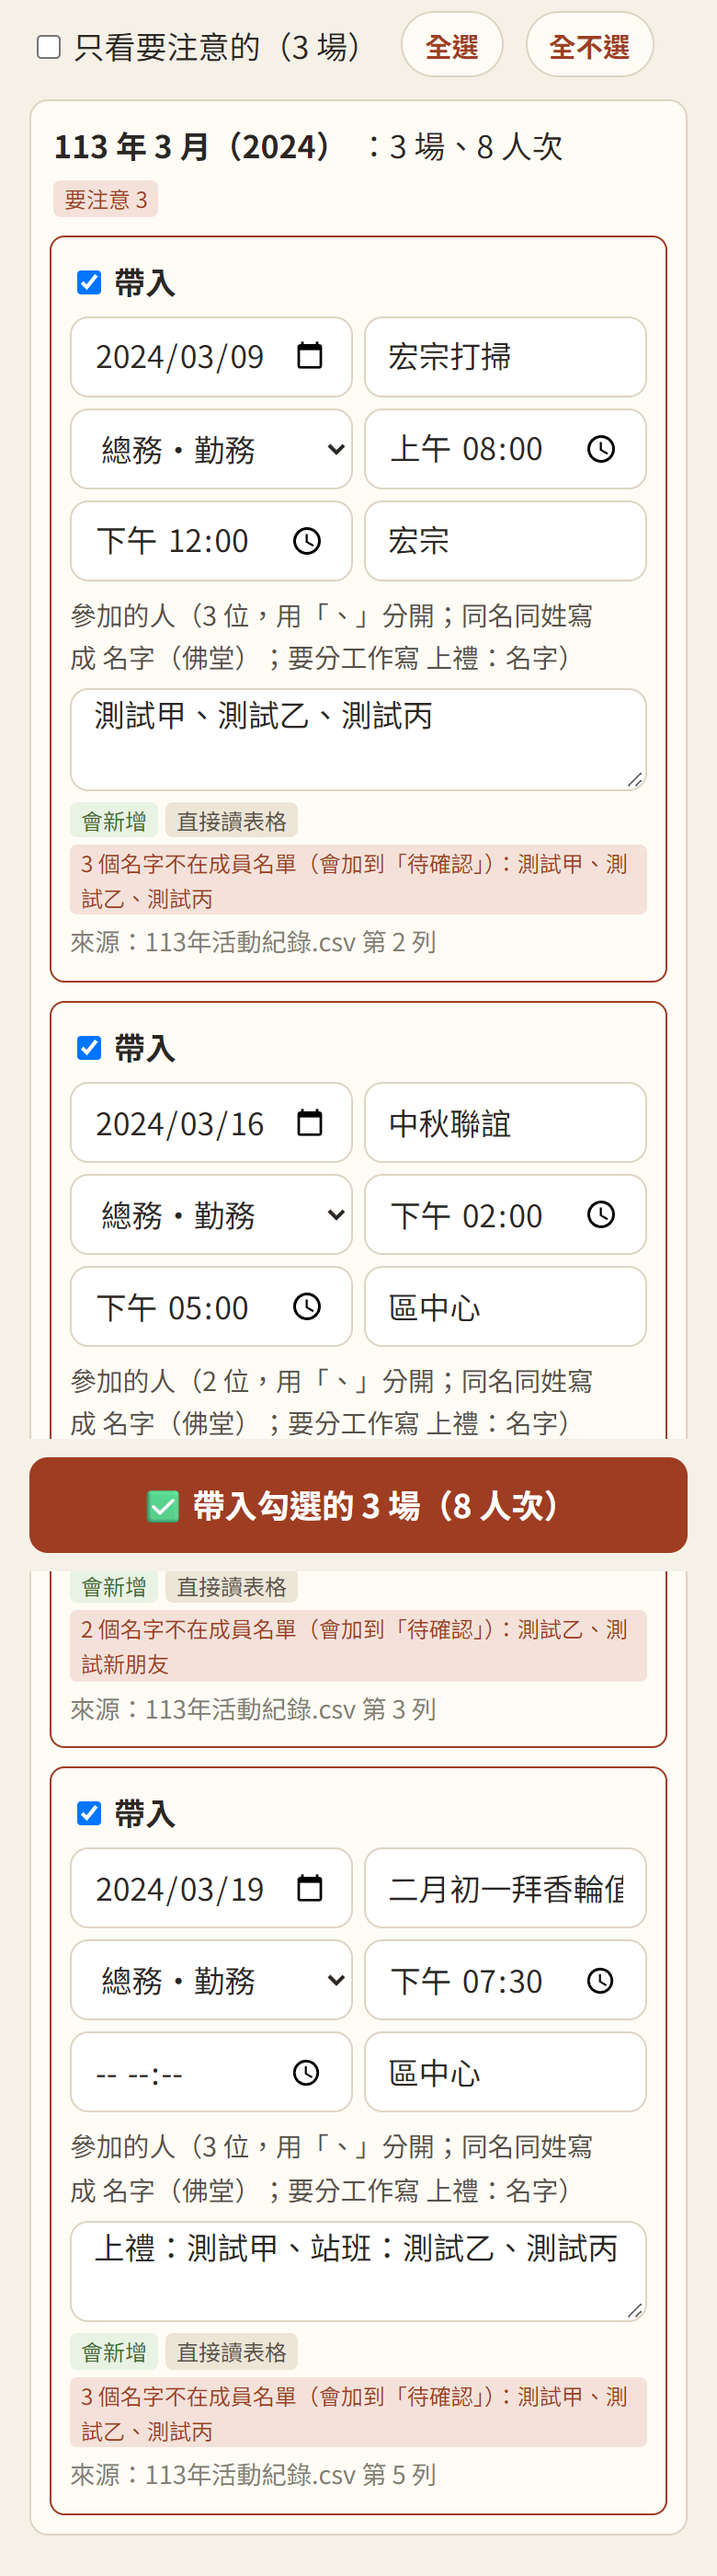
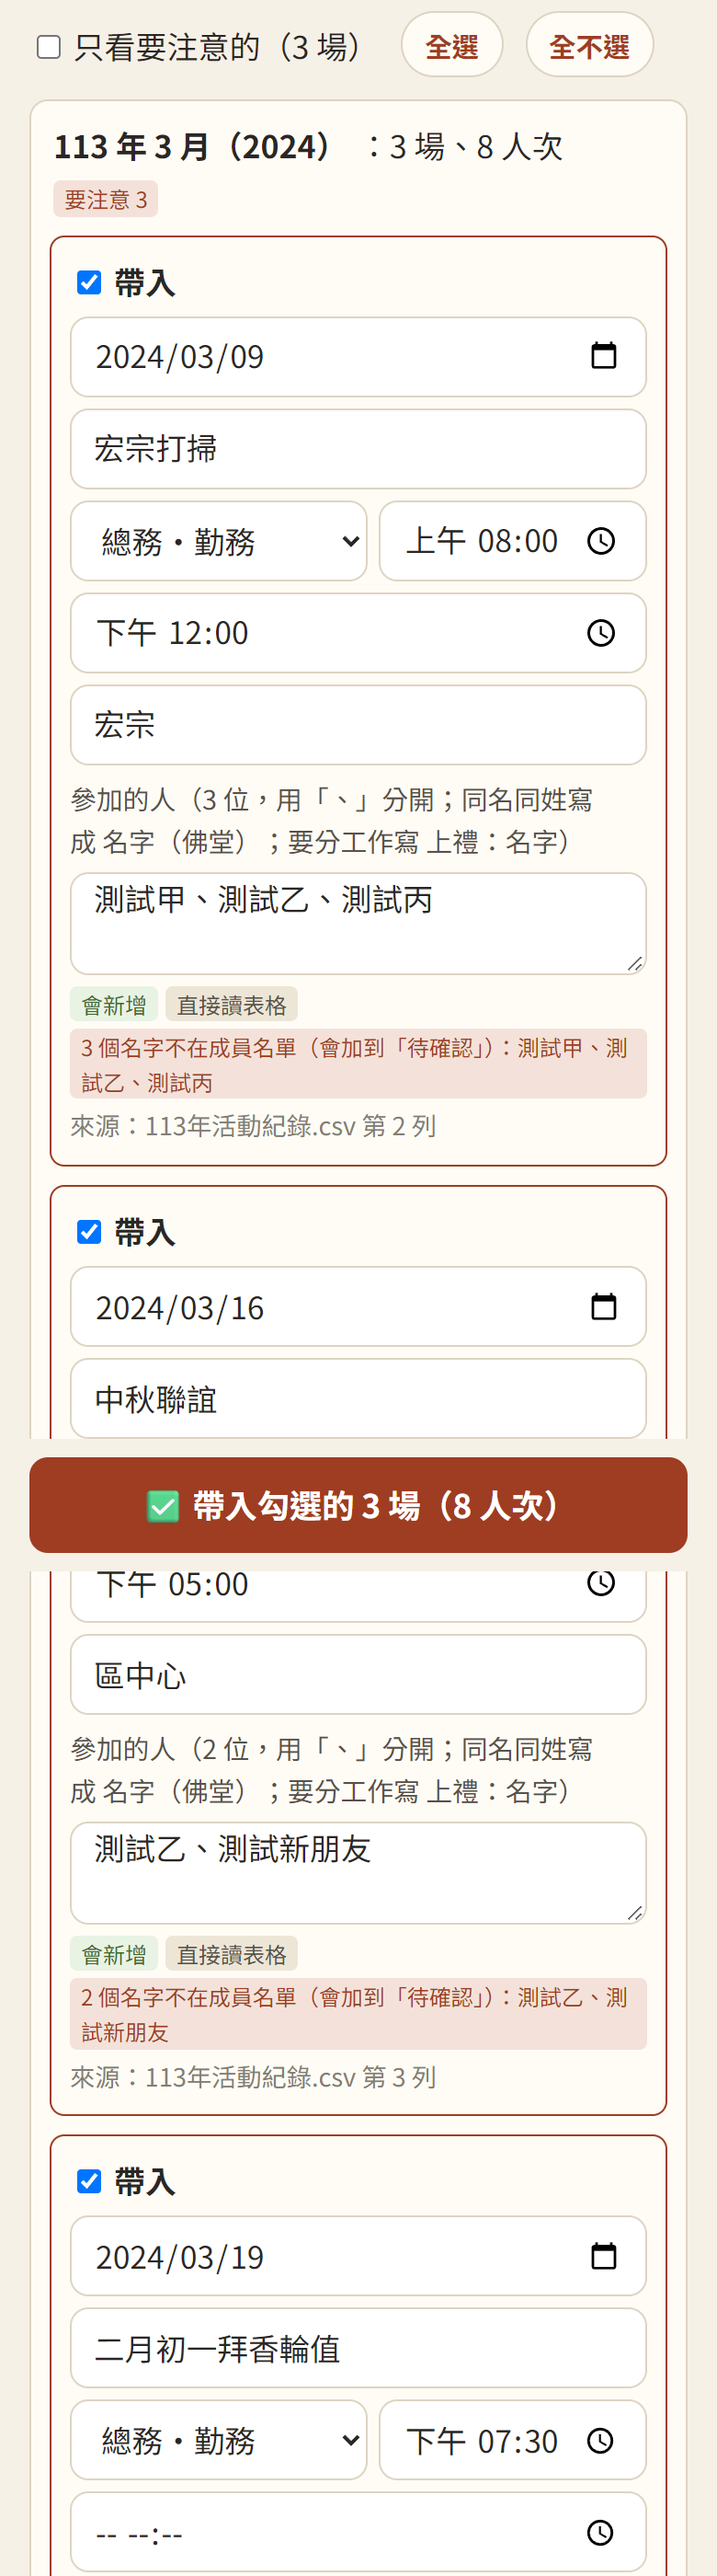
從檔案帶入舊資料：欄位加寬，日期、名稱不再被切到

diff --git a/index.html b/index.html
@@ -15,7 +15,7 @@
   if (location.hostname === 'bailixiao.github.io') location.replace('https://jiaoquan-cal.pages.dev/' + location.pathname.replace(/^\/duty-calendar\/?/, '').replace(/index\.html$/, '') + location.search + location.hash);
   </script>
   <meta name="viewport" content="width=device-width, initial-scale=1">
-  <meta name="app-version" content="20261127c"><!-- 整個網站的版本：部署時和 ?v= 一起換（js/update-check.js 用；正式網站的 ?v= 會換成各檔案的雜湊，見 tools/build-pages.js） -->
+  <meta name="app-version" content="20261127d"><!-- 整個網站的版本：部署時和 ?v= 一起換（js/update-check.js 用；正式網站的 ?v= 會換成各檔案的雜湊，見 tools/build-pages.js） -->
   <meta name="theme-color" content="#f6f1e7">
   <title>教全區行事曆</title>
   <!-- 加到手機主畫面時的圖示與名稱 -->
@@ -32,7 +32,7 @@
   <link rel="preconnect" href="https://fonts.googleapis.com">
   <link rel="preconnect" href="https://fonts.gstatic.com" crossorigin>
   <link href="https://fonts.googleapis.com/css2?family=Noto+Sans+TC:wght@400;500;700&family=Noto+Serif+TC:wght@600;700&display=swap" rel="stylesheet">
-  <link rel="stylesheet" href="css/app.css?v=20261127c">
+  <link rel="stylesheet" href="css/app.css?v=20261127d">
   <script>try { var t = localStorage.getItem('duty-calendar:text-size'); if (t === 'l' || t === 'xl') document.documentElement.classList.add('text-' + t); } catch (e) {}</script>
 </head>
 <body class="splash-on">
@@ -127,78 +127,78 @@
   <script src="https://cdn.jsdelivr.net/npm/fullcalendar@6.1.21/index.global.min.js"></script>
   <script src="https://cdn.jsdelivr.net/npm/@fullcalendar/core@6.1.21/locales/zh-tw.global.min.js"></script>
   <!-- 改了 js、css 後把 ?v= 的日期換新，手機才不會用到舊的檔案（GitHub Pages 會快取 10 分鐘） -->
-  <script src="js/site.js?v=20261127c"></script>
-  <script src="js/region.js?v=20261127c"></script>
-  <script src="js/config.js?v=20261127c"></script>
-  <script src="js/api.js?v=20261127c"></script>
-  <script src="js/format.js?v=20261127c"></script>
-  <script src="js/member-suggest.js?v=20261127c"></script>
-  <script src="js/newcomer.js?v=20261127c"></script>
-  <script src="js/album.js?v=20261127c"></script>
-  <script src="js/member-file.js?v=20261127c"></script>
-  <script src="js/family.js?v=20261127c"></script>
-  <script src="js/lunar-util.js?v=20261127c"></script>
-  <script src="js/date-list.js?v=20261127c"></script>
-  <script src="js/share.js?v=20261127c"></script>
-  <script src="js/addcal.js?v=20261127c"></script>
-  <script src="js/duty-cache.js?v=20261127c"></script>
-  <script src="js/thanks-board.js?v=20261127c"></script>
-  <script src="js/calendar.js?v=20261127c"></script>
-  <script src="js/confirm.js?v=20261127c"></script>
-  <script src="js/reschedule.js?v=20261127c"></script>
-  <script src="js/signup.js?v=20261127c"></script>
-  <script src="js/duty-images.js?v=20261127c"></script>
-  <script src="js/roster-grid.js?v=20261127c"></script>
-  <script src="js/grid-page.js?v=20261127c"></script>
-  <script src="js/grid-image.js?v=20261127c"></script>
-  <script src="js/thanks-image.js?v=20261127c"></script>
-  <script src="js/celebrate.js?v=20261127c"></script>
-  <script src="js/duty.js?v=20261127c"></script>
-  <script src="js/mine.js?v=20261127c"></script>
-  <script src="js/venue-hours.js?v=20261127c"></script>
-  <script src="js/venue.js?v=20261127c"></script>
-  <script src="js/push.js?v=20261127c"></script>
-  <script type="text/x-admin" src="js/attend-check.js?v=20261127c"></script>
-  <script type="text/x-admin" src="js/member-dups.js?v=20261127c"></script>
-  <script type="text/x-admin" src="js/admin.js?v=20261127c"></script>
-  <script type="text/x-admin" src="js/admin-pages.js?v=20261127c"></script>
-  <script type="text/x-admin" src="js/draft-editor.js?v=20261127c"></script>
-  <script type="text/x-admin" src="js/group-fair.js?v=20261127c"></script>
-  <script type="text/x-admin" src="js/admin-duties.js?v=20261127c"></script>
-  <script type="text/x-admin" src="js/admin-accounts.js?v=20261127c"></script>
-  <script type="text/x-admin" src="js/admin-site.js?v=20261127c"></script>
-  <script src="js/region-setup.js?v=20261127c"></script>
-  <script type="text/x-admin" src="js/import-parse.js?v=20261127c"></script>
-  <script type="text/x-admin" src="js/admin-import.js?v=20261127c"></script>
-  <script type="text/x-admin" src="js/old-parse.js?v=20261127c"></script>
-  <script type="text/x-admin" src="js/old-import.js?v=20261127c"></script>
-  <script type="text/x-admin" src="js/admin-people.js?v=20261127c"></script>
-  <script type="text/x-admin" src="js/admin-hq.js?v=20261127c"></script>
-  <script type="text/x-admin" src="js/stats-calc.js?v=20261127c"></script>
-  <script type="text/x-admin" src="js/edu-stats.js?v=20261127c"></script>
-  <script type="text/x-admin" src="js/edu-care.js?v=20261127c"></script>
-  <script type="text/x-admin" src="js/admin-goals.js?v=20261127c"></script>
-  <script type="text/x-admin" src="js/admin-venue.js?v=20261127c"></script>
-  <script type="text/x-admin" src="js/admin-push.js?v=20261127c"></script>
-  <script src="js/tutorial.js?v=20261127c"></script>
-  <script src="js/feedback.js?v=20261127c"></script>
-  <script src="js/help.js?v=20261127c"></script>
-  <script src="js/rollcall.js?v=20261127c"></script>
-  <script type="text/x-admin" src="js/stats-export.js?v=20261127c"></script>
-  <script src="js/repair.js?v=20261127c"></script>
-  <script src="js/activity-report.js?v=20261127c"></script>
-  <script type="text/x-admin" src="js/member-stats.js?v=20261127c"></script>
-  <script type="text/x-admin" src="js/year-report.js?v=20261127c"></script>
-  <script type="text/x-admin" src="js/admin-stats.js?v=20261127c"></script>
-  <script type="text/x-admin" src="js/admin-report.js?v=20261127c"></script>
-  <script type="text/x-admin" src="js/admin-recent-signups.js?v=20261127c"></script>
-  <script type="text/x-admin" src="js/admin-notice.js?v=20261127c"></script>
-  <script type="text/x-admin" src="js/admin-notify.js?v=20261127c"></script>
-  <script type="text/x-admin" src="js/history-parse.js?v=20261127c"></script>
-  <script type="text/x-admin" src="js/admin-history.js?v=20261127c"></script>
-  <script type="text/x-admin" src="js/site-report.js?v=20261127c"></script>
-  <script src="js/easy-mode.js?v=20261127c"></script>
-  <script src="js/app.js?v=20261127c"></script>
-  <script src="js/update-check.js?v=20261127c"></script>
+  <script src="js/site.js?v=20261127d"></script>
+  <script src="js/region.js?v=20261127d"></script>
+  <script src="js/config.js?v=20261127d"></script>
+  <script src="js/api.js?v=20261127d"></script>
+  <script src="js/format.js?v=20261127d"></script>
+  <script src="js/member-suggest.js?v=20261127d"></script>
+  <script src="js/newcomer.js?v=20261127d"></script>
+  <script src="js/album.js?v=20261127d"></script>
+  <script src="js/member-file.js?v=20261127d"></script>
+  <script src="js/family.js?v=20261127d"></script>
+  <script src="js/lunar-util.js?v=20261127d"></script>
+  <script src="js/date-list.js?v=20261127d"></script>
+  <script src="js/share.js?v=20261127d"></script>
+  <script src="js/addcal.js?v=20261127d"></script>
+  <script src="js/duty-cache.js?v=20261127d"></script>
+  <script src="js/thanks-board.js?v=20261127d"></script>
+  <script src="js/calendar.js?v=20261127d"></script>
+  <script src="js/confirm.js?v=20261127d"></script>
+  <script src="js/reschedule.js?v=20261127d"></script>
+  <script src="js/signup.js?v=20261127d"></script>
+  <script src="js/duty-images.js?v=20261127d"></script>
+  <script src="js/roster-grid.js?v=20261127d"></script>
+  <script src="js/grid-page.js?v=20261127d"></script>
+  <script src="js/grid-image.js?v=20261127d"></script>
+  <script src="js/thanks-image.js?v=20261127d"></script>
+  <script src="js/celebrate.js?v=20261127d"></script>
+  <script src="js/duty.js?v=20261127d"></script>
+  <script src="js/mine.js?v=20261127d"></script>
+  <script src="js/venue-hours.js?v=20261127d"></script>
+  <script src="js/venue.js?v=20261127d"></script>
+  <script src="js/push.js?v=20261127d"></script>
+  <script type="text/x-admin" src="js/attend-check.js?v=20261127d"></script>
+  <script type="text/x-admin" src="js/member-dups.js?v=20261127d"></script>
+  <script type="text/x-admin" src="js/admin.js?v=20261127d"></script>
+  <script type="text/x-admin" src="js/admin-pages.js?v=20261127d"></script>
+  <script type="text/x-admin" src="js/draft-editor.js?v=20261127d"></script>
+  <script type="text/x-admin" src="js/group-fair.js?v=20261127d"></script>
+  <script type="text/x-admin" src="js/admin-duties.js?v=20261127d"></script>
+  <script type="text/x-admin" src="js/admin-accounts.js?v=20261127d"></script>
+  <script type="text/x-admin" src="js/admin-site.js?v=20261127d"></script>
+  <script src="js/region-setup.js?v=20261127d"></script>
+  <script type="text/x-admin" src="js/import-parse.js?v=20261127d"></script>
+  <script type="text/x-admin" src="js/admin-import.js?v=20261127d"></script>
+  <script type="text/x-admin" src="js/old-parse.js?v=20261127d"></script>
+  <script type="text/x-admin" src="js/old-import.js?v=20261127d"></script>
+  <script type="text/x-admin" src="js/admin-people.js?v=20261127d"></script>
+  <script type="text/x-admin" src="js/admin-hq.js?v=20261127d"></script>
+  <script type="text/x-admin" src="js/stats-calc.js?v=20261127d"></script>
+  <script type="text/x-admin" src="js/edu-stats.js?v=20261127d"></script>
+  <script type="text/x-admin" src="js/edu-care.js?v=20261127d"></script>
+  <script type="text/x-admin" src="js/admin-goals.js?v=20261127d"></script>
+  <script type="text/x-admin" src="js/admin-venue.js?v=20261127d"></script>
+  <script type="text/x-admin" src="js/admin-push.js?v=20261127d"></script>
+  <script src="js/tutorial.js?v=20261127d"></script>
+  <script src="js/feedback.js?v=20261127d"></script>
+  <script src="js/help.js?v=20261127d"></script>
+  <script src="js/rollcall.js?v=20261127d"></script>
+  <script type="text/x-admin" src="js/stats-export.js?v=20261127d"></script>
+  <script src="js/repair.js?v=20261127d"></script>
+  <script src="js/activity-report.js?v=20261127d"></script>
+  <script type="text/x-admin" src="js/member-stats.js?v=20261127d"></script>
+  <script type="text/x-admin" src="js/year-report.js?v=20261127d"></script>
+  <script type="text/x-admin" src="js/admin-stats.js?v=20261127d"></script>
+  <script type="text/x-admin" src="js/admin-report.js?v=20261127d"></script>
+  <script type="text/x-admin" src="js/admin-recent-signups.js?v=20261127d"></script>
+  <script type="text/x-admin" src="js/admin-notice.js?v=20261127d"></script>
+  <script type="text/x-admin" src="js/admin-notify.js?v=20261127d"></script>
+  <script type="text/x-admin" src="js/history-parse.js?v=20261127d"></script>
+  <script type="text/x-admin" src="js/admin-history.js?v=20261127d"></script>
+  <script type="text/x-admin" src="js/site-report.js?v=20261127d"></script>
+  <script src="js/easy-mode.js?v=20261127d"></script>
+  <script src="js/app.js?v=20261127d"></script>
+  <script src="js/update-check.js?v=20261127d"></script>
 </body>
 </html>

diff --git a/css/app.css b/css/app.css
@@ -3213,7 +3213,12 @@ body.yr-open { overflow: hidden; }
 .oi-item.is-warn { border-color: var(--accent); }
 .oi-item.is-off { opacity: .55; }
 .oi-pick { font-weight: 600; }
-.oi-grid { display: grid; grid-template-columns: repeat(auto-fit, minmax(130px, 1fr)); gap: 6px; }
+.oi-grid { display: flex; flex-wrap: wrap; gap: 6px; }
+.oi-grid > * { flex: 1 1 8.5em; min-width: 0; }
+.oi-grid [data-f=date] { flex: 1 0 11.5em; }
+.oi-grid [data-f=name] { flex: 3 1 18em; }
+.oi-grid [data-f=category] { flex: 1 0 9.5em; }
+.oi-grid [data-f=location] { flex: 2 1 12em; }
 .oi-tags { margin: 0; display: flex; flex-wrap: wrap; gap: 4px; align-items: center; font-size: .85rem; }
 .tag-new { background: var(--ok-soft); color: var(--ok); }
 .sticky-actions { position: sticky; bottom: 0; padding: 10px 0; background: var(--paper); }
